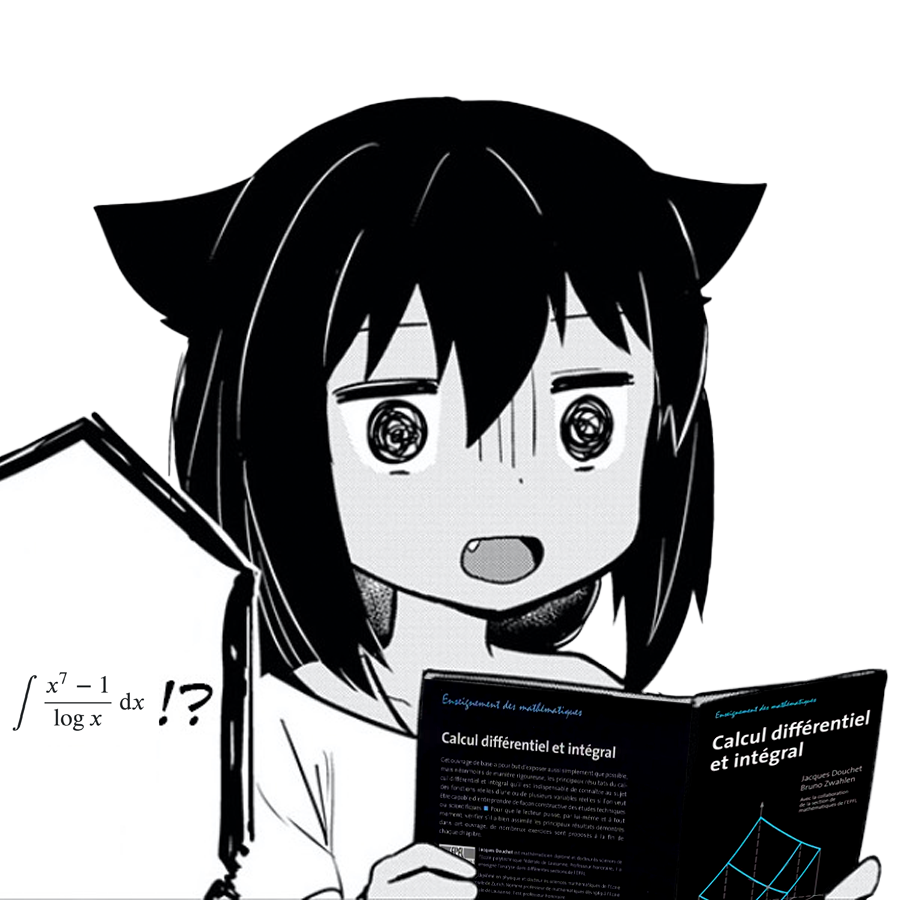
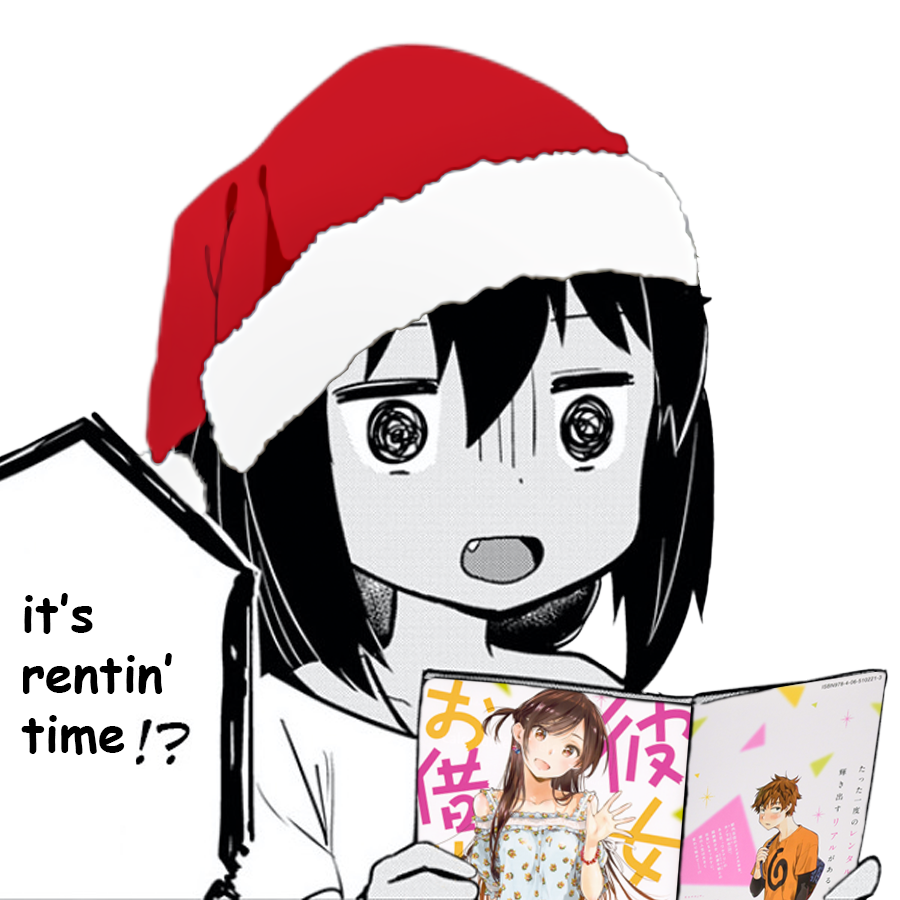
:bento: new pfp

Changed region(s): [[0.0933, 0.0311, 0.8711, 0.5911], [0.4356, 0.7467, 0.9956, 1.0], [0.0, 0.6533, 0.2489, 0.84]]

diff --git a/index.html b/index.html
@@ -30,7 +30,7 @@
         <p>
             <a href="https://gitlab.com/wolfiy/linktree">repo</a> | 
             <a href="https://anilist.co/manga/100207/Jahysama-wa-Kujikenai/">manga girl</a> | 
-            <a href="https://www.epflpress.org/produit/334/9782880747282/Calcul%20differentiel%20et%20integral%20">book</a>
+            <a href="https://global.bookwalker.jp/de01cacc30-4040-445e-a7d0-2b2ef5a332bc/rent-a-girlfriend-1/">book</a>
         </p>
     </div>
 </body>
